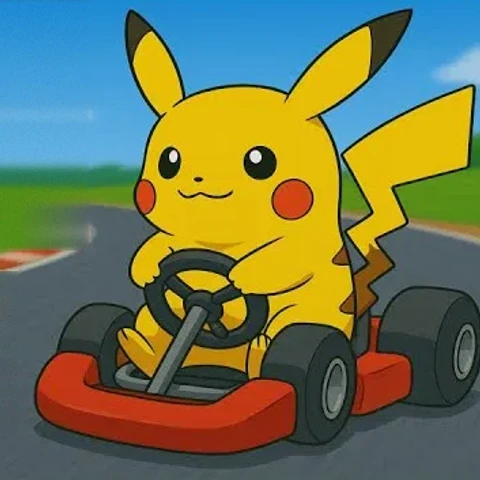
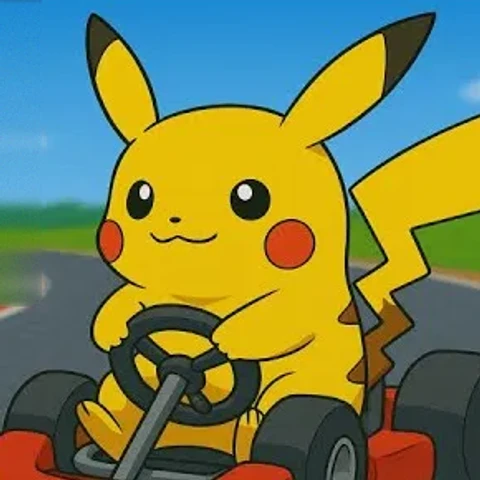
Games: Pikachu recortado mais fechado e ícone da sala preenchendo o quadrado

diff --git a/src/components/admin/GamesAdmin.tsx b/src/components/admin/GamesAdmin.tsx
@@ -119,7 +119,7 @@ export default function GamesAdmin() {
               <div key={m.id} className={`rounded-xl border border-white/10 p-3 sm:p-4 ${m.active ? "" : "opacity-60"}`}>
                 <div className="flex flex-wrap items-center gap-3">
                   <span className="w-12 h-12 shrink-0 rounded-xl bg-spirit/15 border border-spirit/30 flex items-center justify-center text-spirit overflow-hidden">
-                    {modeImage ? <img src={modeImage} alt="" className="w-full h-full object-contain p-0.5" /> : <Icon className="w-5 h-5" />}
+                    {modeImage ? <img src={modeImage} alt="" className="w-full h-full object-cover" /> : <Icon className="w-5 h-5" />}
                   </span>
                   <div className="min-w-[9rem] flex-1">
                     <p className="font-title text-lg truncate">{m.name}</p>
@@ -142,7 +142,7 @@ export default function GamesAdmin() {
                     <div key={r.id}>
                       <Row className={r.active ? "" : "opacity-50"}>
                         <span className="w-9 h-9 shrink-0 rounded-lg bg-white/[0.04] border border-white/10 flex items-center justify-center text-spirit/70 overflow-hidden">
-                          {r.image_url || modeImage ? <img src={(r.image_url || modeImage) as string} alt="" className="w-full h-full object-contain p-0.5" /> : <Icon className="w-4 h-4" />}
+                          {r.image_url || modeImage ? <img src={(r.image_url || modeImage) as string} alt="" className="w-full h-full object-cover" /> : <Icon className="w-4 h-4" />}
                         </span>
                         <div className="min-w-0 flex-1">
                           <p className="font-bold truncate">{r.name}{!r.active && <span className="font-normal text-bone/40"> · oculta</span>}</p>

diff --git a/src/app/games/page.tsx b/src/app/games/page.tsx
@@ -30,7 +30,7 @@ function RoomCard({ room, image, icon: Icon, me }: { room: GameRoom; image: stri
       {/* Vagas: ocupadas com a foto, livres tracejadas */}
       <div className="flex items-center gap-2">
         <span className="w-11 h-11 shrink-0 rounded-xl bg-spirit/15 border border-spirit/30 flex items-center justify-center text-spirit overflow-hidden">
-          {image ? <img src={image} alt="" className="w-full h-full object-contain p-0.5" /> : <Icon className="w-5 h-5" />}
+          {image ? <img src={image} alt="" className="w-full h-full object-cover" /> : <Icon className="w-5 h-5" />}
         </span>
         {seats.map((p, i) =>
           p ? (
